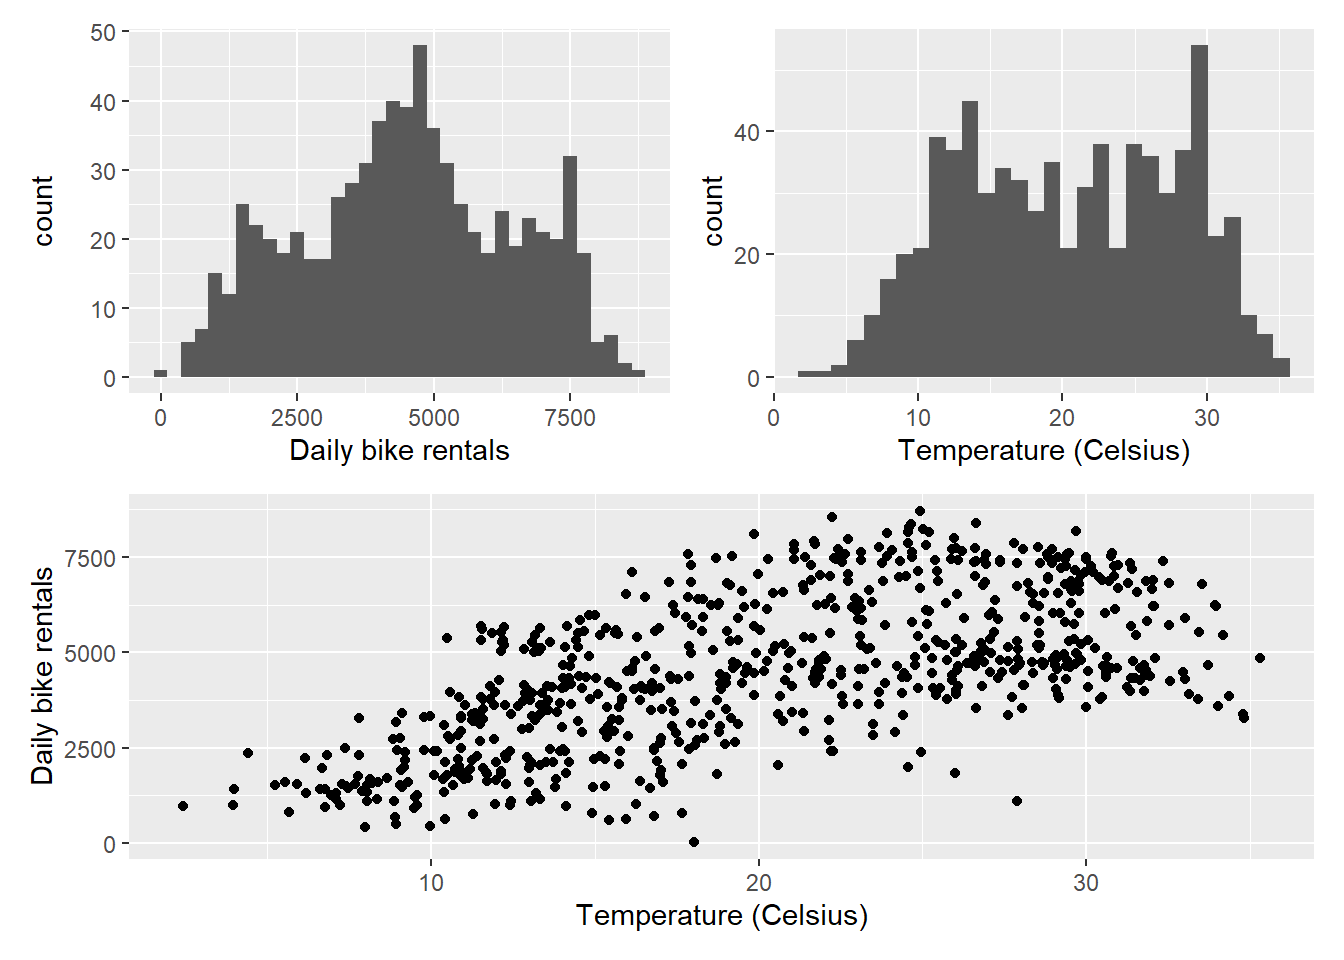
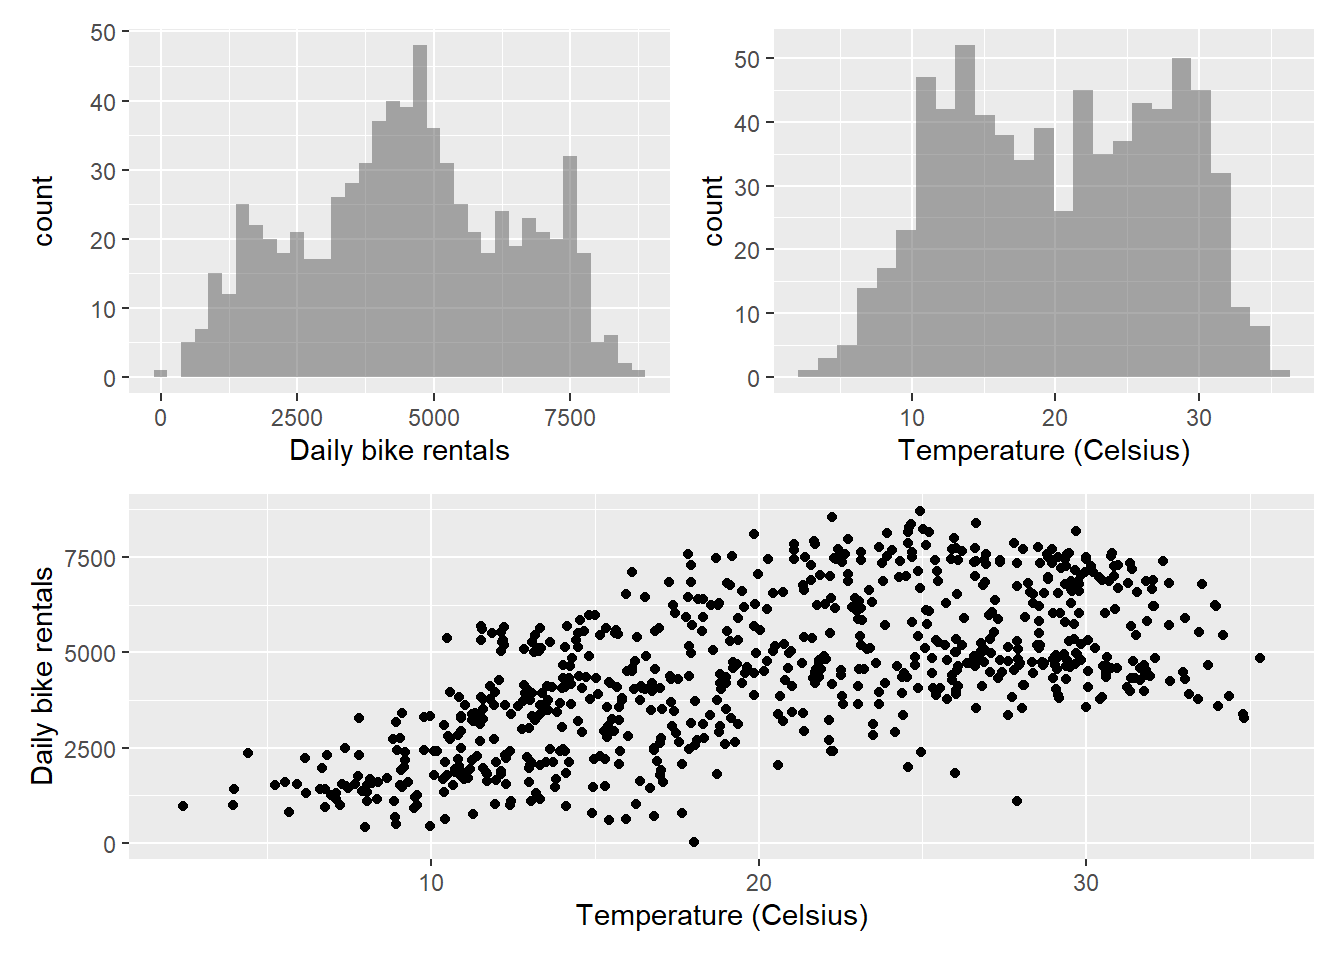
Updated ae2

diff --git a/_site/ae/ae-02-bikeshare.html b/_site/ae/ae-02-bikeshare.html
@@ -244,7 +244,6 @@ window.Quarto = {
   <ul class="collapse">
   <li><a href="#exercise-1" id="toc-exercise-1" class="nav-link" data-scroll-target="#exercise-1">Exercise 1</a></li>
   <li><a href="#exercise-2" id="toc-exercise-2" class="nav-link" data-scroll-target="#exercise-2">Exercise 2</a></li>
-  <li><a href="#exercise-3" id="toc-exercise-3" class="nav-link" data-scroll-target="#exercise-3">Exercise 3</a></li>
   </ul></li>
   </ul>
 <div class="toc-actions"><ul><li><a href="https://github.com/EricFriedlander/MATH212FA24/edit/main/ae/ae-02-bikeshare.qmd" class="toc-action"><i class="bi bi-github"></i>Edit this page</a></li><li><a href="https://github.com/EricFriedlander/MATH212FA24/issues/new" class="toc-action"><i class="bi empty"></i>Report an issue</a></li></ul></div></nav>
@@ -293,7 +292,7 @@ Important
 </div>
 <div class="cell">
 <div class="sourceCode cell-code" id="cb1"><pre class="sourceCode r code-with-copy"><code class="sourceCode r"><span id="cb1-1"><a href="#cb1-1" aria-hidden="true" tabindex="-1"></a><span class="fu">library</span>(tidyverse)</span>
-<span id="cb1-2"><a href="#cb1-2" aria-hidden="true" tabindex="-1"></a><span class="fu">library</span>(tidymodels)</span>
+<span id="cb1-2"><a href="#cb1-2" aria-hidden="true" tabindex="-1"></a><span class="fu">library</span>(ggformula)</span>
 <span id="cb1-3"><a href="#cb1-3" aria-hidden="true" tabindex="-1"></a><span class="fu">library</span>(patchwork)</span></code><button title="Copy to Clipboard" class="code-copy-button"><i class="bi"></i></button></pre></div>
 </div>
 <section id="data" class="level2">
@@ -312,24 +311,19 @@ Important
 </section>
 <section id="daily-counts-and-temperature" class="level2">
 <h2 class="anchored" data-anchor-id="daily-counts-and-temperature">Daily counts and temperature</h2>
-<section id="exercise-1" class="level3">
-<h3 class="anchored" data-anchor-id="exercise-1">Exercise 1</h3>
-<p>Visualize the distribution of daily bike rentals and temperature as well as the relationship between these two variables.</p>
+<p>Let first visualize the distribution of daily bike rentals and temperature as well as the relationship between these two variables.</p>
 <div class="cell">
-<div class="sourceCode cell-code" id="cb3"><pre class="sourceCode r code-with-copy"><code class="sourceCode r"><span id="cb3-1"><a href="#cb3-1" aria-hidden="true" tabindex="-1"></a>p1 <span class="ot">&lt;-</span> <span class="fu">ggplot</span>(bikeshare, <span class="fu">aes</span>(<span class="at">x =</span> count)) <span class="sc">+</span></span>
-<span id="cb3-2"><a href="#cb3-2" aria-hidden="true" tabindex="-1"></a>  <span class="fu">geom_histogram</span>(<span class="at">binwidth =</span> <span class="dv">250</span>) <span class="sc">+</span> </span>
-<span id="cb3-3"><a href="#cb3-3" aria-hidden="true" tabindex="-1"></a>  <span class="fu">labs</span>(<span class="at">x =</span> <span class="st">"Daily bike rentals"</span>)</span>
-<span id="cb3-4"><a href="#cb3-4" aria-hidden="true" tabindex="-1"></a></span>
-<span id="cb3-5"><a href="#cb3-5" aria-hidden="true" tabindex="-1"></a>p2 <span class="ot">&lt;-</span> <span class="fu">ggplot</span>(bikeshare, <span class="fu">aes</span>(<span class="at">x =</span> temp_orig)) <span class="sc">+</span></span>
-<span id="cb3-6"><a href="#cb3-6" aria-hidden="true" tabindex="-1"></a>  <span class="fu">geom_histogram</span>() <span class="sc">+</span> </span>
-<span id="cb3-7"><a href="#cb3-7" aria-hidden="true" tabindex="-1"></a>  <span class="fu">labs</span>(<span class="at">x =</span> <span class="st">"Temperature (Celsius)"</span>)</span>
-<span id="cb3-8"><a href="#cb3-8" aria-hidden="true" tabindex="-1"></a></span>
-<span id="cb3-9"><a href="#cb3-9" aria-hidden="true" tabindex="-1"></a>p3 <span class="ot">&lt;-</span> <span class="fu">ggplot</span>(bikeshare, <span class="fu">aes</span>(<span class="at">y =</span> count, <span class="at">x =</span> temp_orig)) <span class="sc">+</span></span>
-<span id="cb3-10"><a href="#cb3-10" aria-hidden="true" tabindex="-1"></a>  <span class="fu">geom_point</span>() <span class="sc">+</span> </span>
-<span id="cb3-11"><a href="#cb3-11" aria-hidden="true" tabindex="-1"></a>  <span class="fu">labs</span>(<span class="at">x =</span> <span class="st">"Temperature (Celsius)"</span>, </span>
-<span id="cb3-12"><a href="#cb3-12" aria-hidden="true" tabindex="-1"></a>       <span class="at">y =</span> <span class="st">"Daily bike rentals"</span>)</span>
-<span id="cb3-13"><a href="#cb3-13" aria-hidden="true" tabindex="-1"></a></span>
-<span id="cb3-14"><a href="#cb3-14" aria-hidden="true" tabindex="-1"></a>(p1 <span class="sc">|</span> p2) <span class="sc">/</span> p3</span></code><button title="Copy to Clipboard" class="code-copy-button"><i class="bi"></i></button></pre></div>
+<div class="sourceCode cell-code" id="cb3"><pre class="sourceCode r code-with-copy"><code class="sourceCode r"><span id="cb3-1"><a href="#cb3-1" aria-hidden="true" tabindex="-1"></a>p1 <span class="ot">&lt;-</span> <span class="fu">gf_histogram</span>(<span class="sc">~</span>count, <span class="at">data =</span> bikeshare, <span class="at">binwidth =</span> <span class="dv">250</span>) <span class="sc">|&gt;</span>  </span>
+<span id="cb3-2"><a href="#cb3-2" aria-hidden="true" tabindex="-1"></a>  <span class="fu">gf_labs</span>(<span class="at">x =</span> <span class="st">"Daily bike rentals"</span>)</span>
+<span id="cb3-3"><a href="#cb3-3" aria-hidden="true" tabindex="-1"></a></span>
+<span id="cb3-4"><a href="#cb3-4" aria-hidden="true" tabindex="-1"></a>p2 <span class="ot">&lt;-</span> <span class="fu">gf_histogram</span>(<span class="sc">~</span>temp_orig, <span class="at">data =</span> bikeshare) <span class="sc">|&gt;</span> </span>
+<span id="cb3-5"><a href="#cb3-5" aria-hidden="true" tabindex="-1"></a>  <span class="fu">gf_labs</span>(<span class="at">x =</span> <span class="st">"Temperature (Celsius)"</span>)</span>
+<span id="cb3-6"><a href="#cb3-6" aria-hidden="true" tabindex="-1"></a></span>
+<span id="cb3-7"><a href="#cb3-7" aria-hidden="true" tabindex="-1"></a>p3 <span class="ot">&lt;-</span> <span class="fu">gf_point</span>(count <span class="sc">~</span> temp_orig, <span class="at">data =</span> bikeshare)  <span class="sc">|&gt;</span>  </span>
+<span id="cb3-8"><a href="#cb3-8" aria-hidden="true" tabindex="-1"></a>  <span class="fu">gf_labs</span>(<span class="at">x =</span> <span class="st">"Temperature (Celsius)"</span>, </span>
+<span id="cb3-9"><a href="#cb3-9" aria-hidden="true" tabindex="-1"></a>       <span class="at">y =</span> <span class="st">"Daily bike rentals"</span>)</span>
+<span id="cb3-10"><a href="#cb3-10" aria-hidden="true" tabindex="-1"></a></span>
+<span id="cb3-11"><a href="#cb3-11" aria-hidden="true" tabindex="-1"></a>(p1 <span class="sc">|</span> p2) <span class="sc">/</span> p3</span></code><button title="Copy to Clipboard" class="code-copy-button"><i class="bi"></i></button></pre></div>
 <div class="cell-output-display">
 <div>
 <figure class="figure">
@@ -338,21 +332,16 @@ Important
 </div>
 </div>
 </div>
+<p>Submit your answers to the following questions to <a href="https://PollEv.com/surveys/2s7kJw1CFyYM3oNOMi3uF/respond">Poll Everywhere</a>.</p>
+<section id="exercise-1" class="level3">
+<h3 class="anchored" data-anchor-id="exercise-1">Exercise 1</h3>
+<p>Describe the relationship between daily bike rentals and temperature. Comment on how we expect the number of bike rentals to change as the temperature increases.</p>
 </section>
 <section id="exercise-2" class="level3">
 <h3 class="anchored" data-anchor-id="exercise-2">Exercise 2</h3>
-<p>Describe the relationship between daily bike rentals and temperature. Comment on how we expect the number of bike rentals to change as the temperature increases.</p>
-</section>
-<section id="exercise-3" class="level3">
-<h3 class="anchored" data-anchor-id="exercise-3">Exercise 3</h3>
 <p>Suppose you want to fit a model so you can use the temperature to predict the number of bike rentals. Would a model of the form</p>
 <p><span class="math display">\[\text{count} = \beta_0 + \beta_1 ~ \text{temp\_orig} + \epsilon\]</span></p>
 <p>be an appropriate fit for the data? Why or why not?</p>
-<p>Put your group’s vote on Ed Discussion and briefly describe your reasoning in the comments.</p>
-<ul>
-<li><p>Section 001 (10:05am): <a href="https://edstem.org/us/courses/44523/discussion/3361086">edstem.org/us/courses/44523/discussion/3361086</a></p></li>
-<li><p>Section 002 (1:25pm): <a href="https://edstem.org/us/courses/44523/discussion/3361091">edstem.org/us/courses/44523/discussion/3361091</a></p></li>
-</ul>
 
 
 </section>
